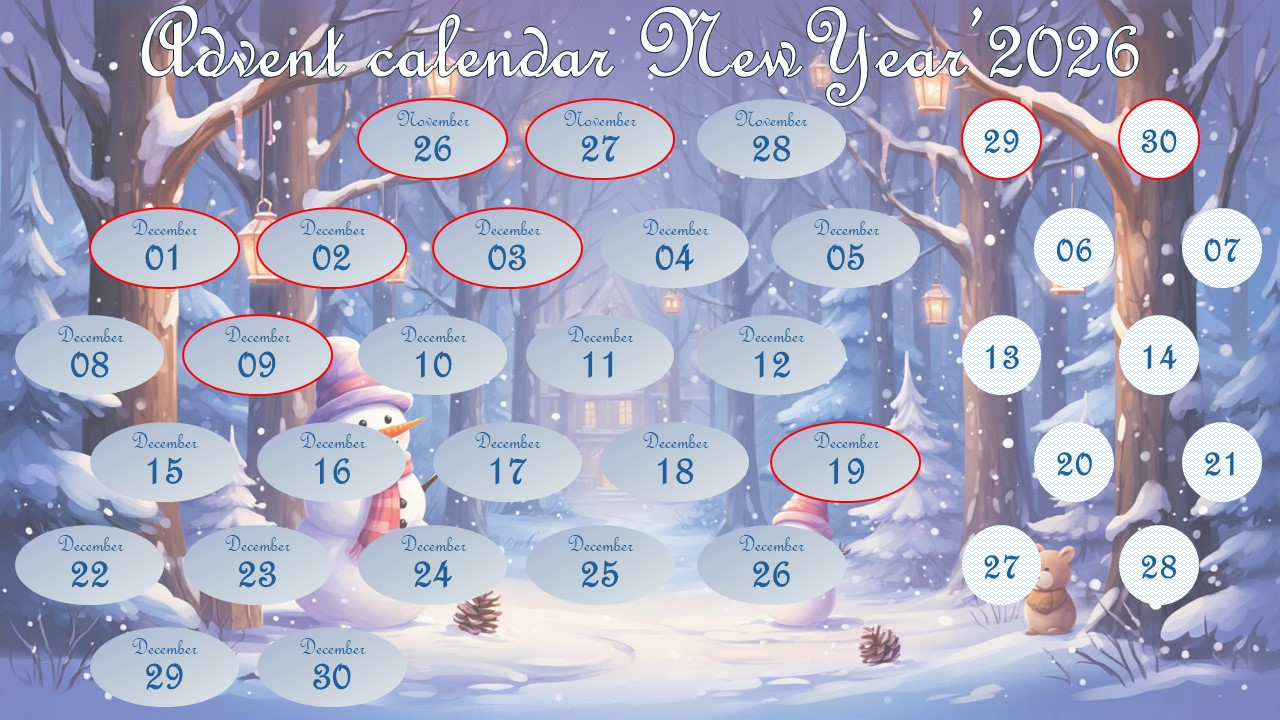
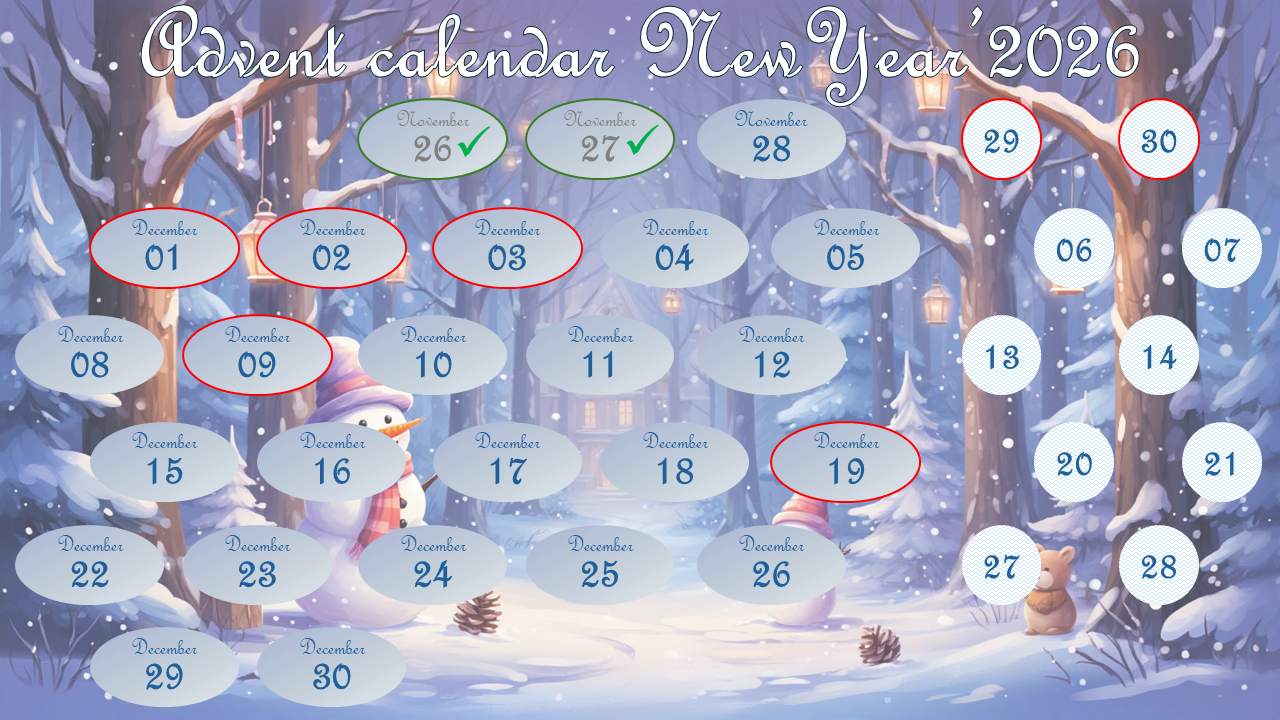
Add files via upload

diff --git a/index.html b/index.html
@@ -119,8 +119,7 @@
      data-html="<strong>День домашней кухни «Гарри Поттер»</strong><br><br>
      Описание события:<br>
      <a href='https://t.me/c/2269438761/521' target='_blank'>Открыть пост</a><br><br>
-     Записаться:<br>
-     <a href='https://calendar.yandex-team.ru/event/254473985?applyToFuture=0&event_date=2025-11-26T16%3A00%3A00&layerId' target='_blank'>Добавиться во встречу</a>">
+     <strong>Событие завершено</strong><br>">
     </div>
 
     <!-- 27 ноября -->
@@ -130,8 +129,7 @@
      data-html="<strong>Лучшее Соревнование Детективов</strong><br><br>
      Описание события:<br>
      <a href='https://t.me/c/2269438761/533' target='_blank'>Открыть пост</a><br><br>
-     Записаться:<br>
-     <a href='https://calendar.yandex-team.ru/event/258166848?applyToFuture=0&event_date=2025-11-27T15%3A30%3A00&layerId=1359802&show_date=2025-11-26' target='_blank'>Добавиться во встречу</a>">
+     <strong>Событие завершено безоговорочной победой</strong><br>">
     </div>
 
     <!-- 29 ноября — 3 декабря -->
